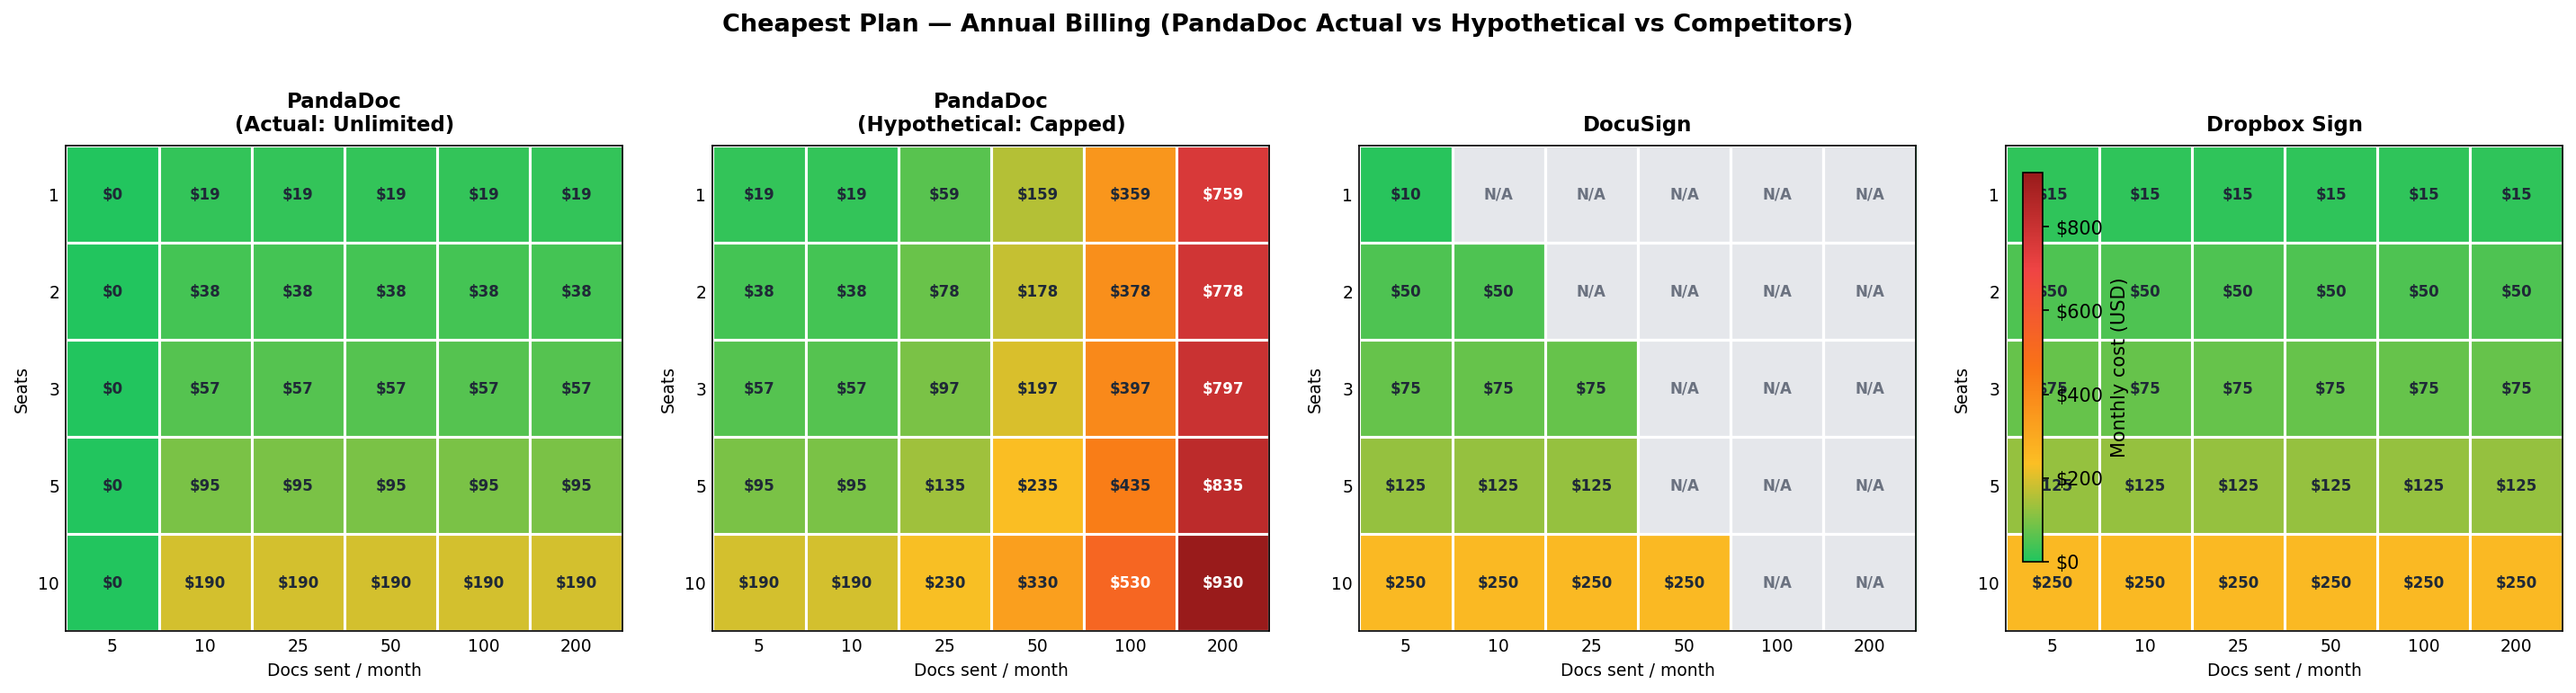
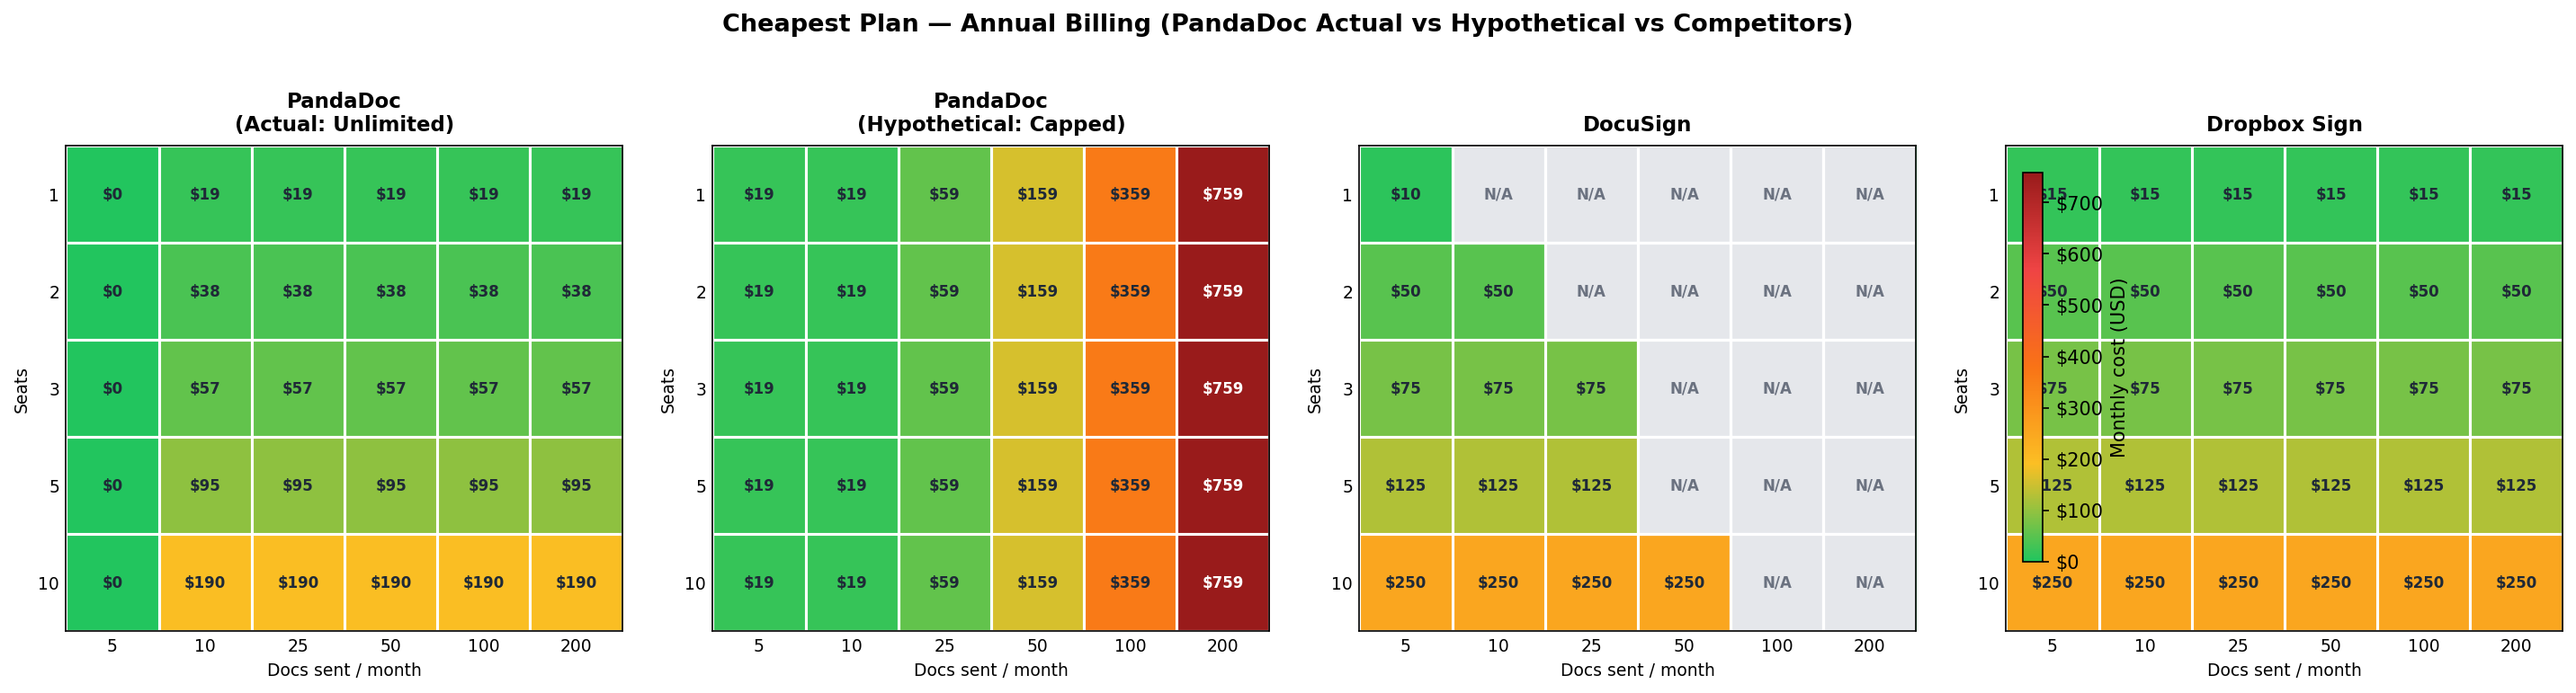
Change hypothetical to flat fee (unlimited seats) + doc cap + $4/doc overage
Price no longer scales with seat count. Flat fee per plan:
- Starter: $19/mo (annual) or $35/mo (monthly), 15 docs/mo cap
- Business: $49/mo (annual) or $65/mo (monthly), 20 docs/mo cap
Any doc beyond cap costs $4/doc.

https://claude.ai/code/session_014DEMrbiRzCpwPJqmDAr6XD

diff --git a/generate_pricing_charts.py b/generate_pricing_charts.py
@@ -75,32 +75,32 @@ def pandadoc_business(seats, docs_mo, annual):
 
 
 # ── Hypothetical PandaDoc (doc-capped, unlimited seats, $4/doc overage) ──────
-# Same per-seat price but with document caps. Overage at $4/doc beyond cap.
+# Flat fee (unlimited seats) with document caps. Overage at $4/doc beyond cap.
 # Monthly plans: check docs_mo against monthly cap.
 # Annual plans: check docs_mo * 12 against annual cap.
 OVERAGE_PER_DOC = 4.0
 
 
 def pandadoc_hyp_starter(seats, docs_mo, annual):
-    """Hypothetical Starter: 15 docs/mo or 180 docs/yr. $4/doc overage."""
+    """Hypothetical Starter: flat $19/$35, 15 docs/mo or 180 docs/yr. $4/doc overage. Unlimited seats."""
     if annual:
         annual_docs = docs_mo * 12
         overage = max(0, annual_docs - 180) * OVERAGE_PER_DOC / 12  # spread monthly
-        return 19.0 * seats + overage
+        return 19.0 + overage
     else:
         overage = max(0, docs_mo - 15) * OVERAGE_PER_DOC
-        return 35.0 * seats + overage
+        return 35.0 + overage
 
 
 def pandadoc_hyp_business(seats, docs_mo, annual):
-    """Hypothetical Business: 20 docs/mo or 240 docs/yr. $4/doc overage."""
+    """Hypothetical Business: flat $49/$65, 20 docs/mo or 240 docs/yr. $4/doc overage. Unlimited seats."""
     if annual:
         annual_docs = docs_mo * 12
         overage = max(0, annual_docs - 240) * OVERAGE_PER_DOC / 12  # spread monthly
-        return 49.0 * seats + overage
+        return 49.0 + overage
     else:
         overage = max(0, docs_mo - 20) * OVERAGE_PER_DOC
-        return 65.0 * seats + overage
+        return 65.0 + overage
 
 
 def dropbox_free(seats, docs_mo, annual):
@@ -153,8 +153,8 @@ COMPANIES = {
 
 HYPOTHETICAL = {
     "PandaDoc (Hypothetical)": [
-        ("Starter\n(15/mo or 180/yr\n+$4/doc overage)", pandadoc_hyp_starter, True, True),
-        ("Business\n(20/mo or 240/yr\n+$4/doc overage)", pandadoc_hyp_business, True, True),
+        ("Starter\n∞ seats, flat fee\n15/mo or 180/yr cap\n+$4/doc overage", pandadoc_hyp_starter, True, True),
+        ("Business\n∞ seats, flat fee\n20/mo or 240/yr cap\n+$4/doc overage", pandadoc_hyp_business, True, True),
     ],
 }
 # Tuple: (plan_name, cost_fn, has_annual, has_monthly)
